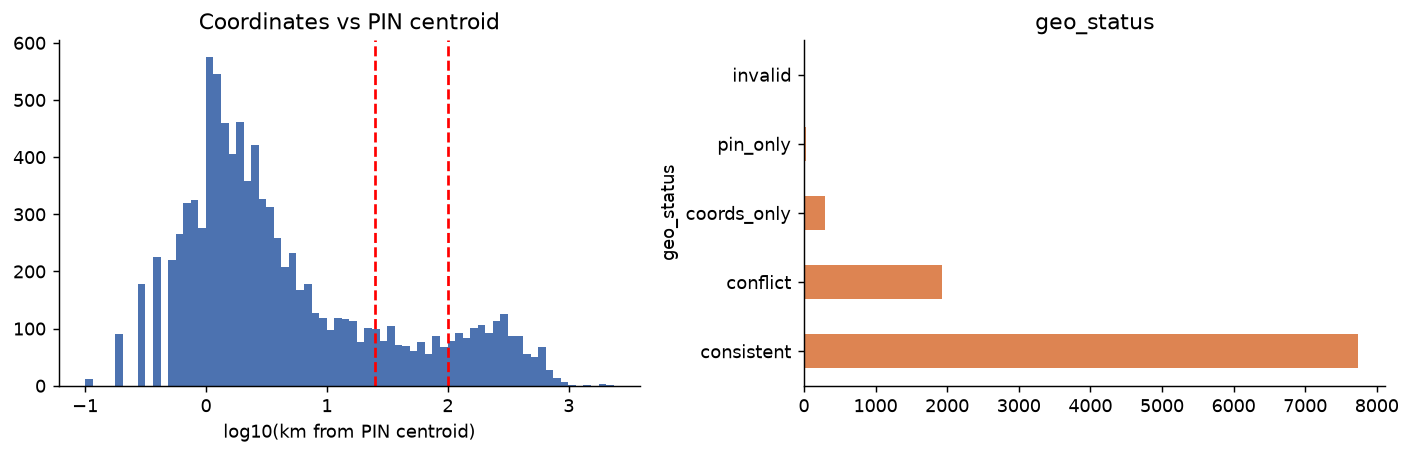
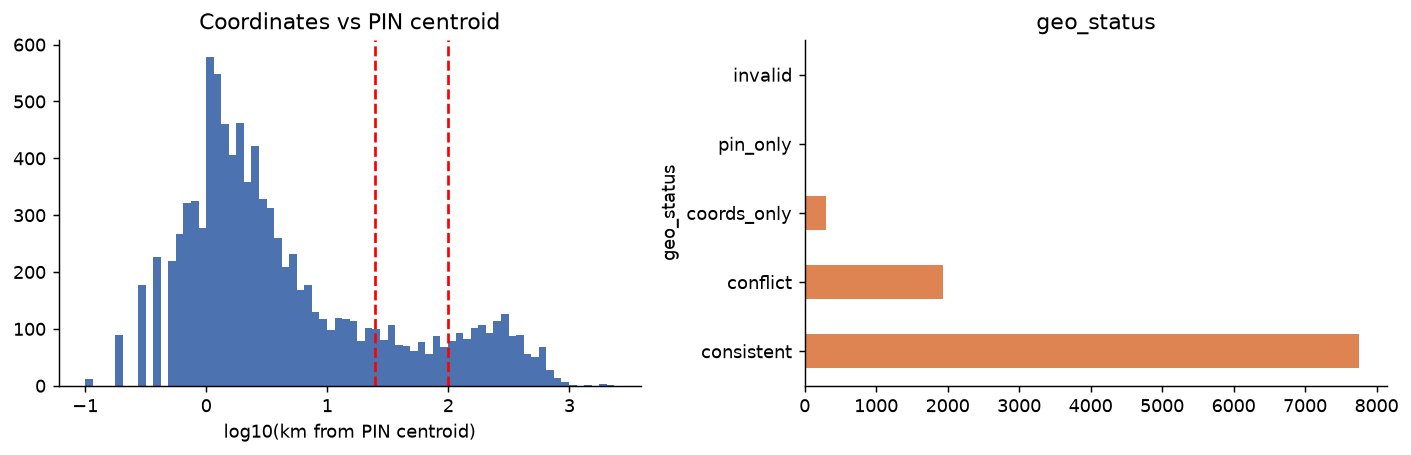
Person 2: rebuild fac_geo on Person 1's fac_base
- the 30 repaired records now have coordinates (24 verified, 5 approximate, 1 unverified)
- cross-check against Person 1's overlapping location columns (section 8b)
- note on shared column names for the final join; README and report section 2 refreshed

diff --git a/Person_2/README.md b/Person_2/README.md
@@ -34,7 +34,7 @@ jupyter lab Person2_Geo.ipynb          # or open it in VS Code and Run All
 
 ```python
 import geo_pipeline as gp, geocoder as G
-base, _ = gp.load_base("../Dataset/facilities.csv")            # swap in Person 1's fac_base when available
+base = pd.read_parquet("../Person_1/output/fac_base.parquet")   # Person 1's table (pip install pyarrow)          
 ref     = gp.build_reference("../Dataset/india_post_pincode_directory.csv")
 osm     = pd.read_csv("outputs/osm_health_poi.csv")    # optional; omit to skip the OpenStreetMap check
 geo     = gp.build_fac_geo(base, ref, osm=osm)         # ~50 s with OSM, ~15 s without
@@ -79,7 +79,7 @@ Every row has `reasons`: a JSON list of plain sentences for the "Why this facili
 
 ## Known limits
 
-* **30 truncated records have no coordinates** here (`geo_status` is `pin_only` or `invalid`) because stitching them is Person 1's task. Re-run with P1's `fac_base`.
+* **Base table:** built on Person 1's stitched `Person_1/output/fac_base.parquet` (9,989 rows). The 30 repaired records now have coordinates: 24 verified, 5 approximate (PIN centre), 1 unverified. Reading Parquet needs `pip install pyarrow`; without Person 1's file the notebook falls back to a stand-in base (which has no coordinates for those 30).
 * **OpenStreetMap corroboration (L3) is done.** `fetch_osm.py` downloaded **87,469** named hospitals/clinics/doctors/dentists (4.9 MB, `outputs/osm_health_poi.csv`) for 35 of 36 states/UTs; Lakshadweep failed twice (the dataset has no facilities there). A facility counts as matched when an OSM place with a >= 80% similar name lies within 2 km of its coordinates or its PIN centroid: **3,379 facilities (33.8%)**. OSM coverage is incomplete, so a miss is not evidence of a wrong location. Where OSM could arbitrate a coordinate-vs-PIN conflict (799 of 1,924), it sided with the coordinates 609 times and with the PIN 190 times.
 * **District-by-PIN is approximate** where a PIN spans districts (6.5% of PINs) and where district boundaries have changed since the directory was built. `flag_district_conflict` marks facilities where the PIN and the coordinates disagree.
 * **NFHS match:** 704 of 706 NFHS districts map to an India Post district. `Chandel` (filed under Mizoram in NFHS, which looks like a source error) and `Warangal Rural` (India Post has a single Warangal) are left unmatched.
@@ -102,6 +102,7 @@ df.write.mode("overwrite").saveAsTable("<catalog>.<schema>.fac_geo")
 
 ## Hand-offs
 
-* **Person 1:** call `build_fac_geo(base=fac_base, reference=ref)` once `fac_base` exists; it fills the 30 stitched records.
+* **Person 1:** done, thank you. `fac_geo` is built on `fac_base.parquet`. If `fac_base` is re-issued, re-run `build_fac_geo(base=fac_base, reference=ref, osm=osm)` (about 45 s).
+* **Final join:** `fac_base` and `fac_geo` share these column names: `city_matches_pin, pin6, pin_district, pin_lat, pin_lon, pin_source, pin_state, pin_valid, reasons, state_norm`. Prefix one side (for example `geo_`) before joining the four tables. On the overlapping fields the two tables agree on about 99.9% of rows (PIN, state); `city_matches_pin` agrees on 94.6% because this table applies more rules (Delhi-style city names, nearby-place check).
 * **Person 3:** `merge_suspect_score` location inputs are `flag_geo_mismatch_100km` (B6) and `flag_multiple_pins` (B10); `flag_shared_coords` and `flag_district_conflict` are optional extra signals.
 * **Person 4 / ranking:** use `best_lat`, `best_lon` for distance and `location_trust` (label) / `location_trust_score` (0-1) inside `facility_trust`. Show `location_precision` so a `pin_centroid` result is never presented as an exact address.

diff --git a/Person_2/data_quality_report_section2.md b/Person_2/data_quality_report_section2.md
@@ -9,8 +9,8 @@ Base: 9,989 facilities. Locations were decided with the rule in the playbook plu
 | B3 | PIN had a space/hyphen / was malformed | 156 / 73 | FIX: cleaned; else read from the address text |
 | B4 | PIN not in the India Post directory | 209 | FLAG: flag_pin_invalid; falls back to coordinates or district |
 | B5 | State differs from the PIN's state | 64 (26 AP/Telangana) | FLAG; AP/Telangana trust the PIN; 15 PINs ignored where address and coordinates both disagree |
-| B6 | Coordinates > 25 km from the PIN centroid | 1924 | FLAG: geo_mismatch_km, geo_status = conflict |
-| B7 | Coordinates > 100 km from the PIN | 1191 | FLAG + trust penalty; PIN centroid used unless OSM or district agreement supports the coordinates |
+| B6 | Coordinates > 25 km from the PIN centroid | 1930 | FLAG: geo_mismatch_km, geo_status = conflict |
+| B7 | Coordinates > 100 km from the PIN | 1194 | FLAG + trust penalty; PIN centroid used unless OSM or district agreement supports the coordinates |
 | B8 | Coordinates outside India | 6 | NULL (original kept in raw_latitude / raw_longitude) |
 | B9 | Facilities on identical coordinates | 81 | FLAG: location_precision = locality |
 | B10 | Address mentions 2+ distinct valid PINs | 89 | FLAG: flag_multiple_pins (feeds the merge score) |
@@ -24,22 +24,22 @@ Base: 9,989 facilities. Locations were decided with the rule in the playbook plu
 
 | location_trust | facilities | share |
 |---|---|---|
-| verified | 7733 | 77.4% |
+| verified | 7757 | 77.7% |
 | verified_osm | 799 | 8.0% |
-| unverified | 614 | 6.1% |
-| approximate_pin | 586 | 5.9% |
+| unverified | 615 | 6.2% |
+| approximate_pin | 561 | 5.6% |
 | probable | 256 | 2.6% |
 | unknown | 1 | 0.0% |
 
-Trust level (score-based): high 8756, medium 617, low 616.
-A usable best location exists for 9,988 of 9,989; precision: coordinates 8807, pin_centroid 1109, locality 72, none 1.
+Trust level (score-based): high 8780, medium 592, low 617.
+A usable best location exists for 9,988 of 9,989; precision: coordinates 8831, pin_centroid 1085, locality 72, none 1.
 
 ### Notes
 
-* OpenStreetMap (87,469 places) matched 3,379 facilities. Of 1924 coordinate-vs-PIN conflicts it supported the coordinates 609 times and the PIN 190 times.
+* OpenStreetMap (87,469 places) matched 3,381 facilities. Of 1930 coordinate-vs-PIN conflicts it supported the coordinates 609 times and the PIN 190 times.
 * Added tier `probable`: coordinates in the same district as the PIN and within 100 km are kept. Where OSM could arbitrate, the coordinates were right about three times in four, so discarding them would lose good data.
 * Added tier `approximate_district` (only the district is known). `location_trust` therefore has seven labels, a superset of the playbook's five; map `probable` to verified-with-caution if a strict five-way label is needed.
 * The India Post directory is itself wrong for some PINs (for example 799001 in Agartala is filed under Telangana). When the address state and the coordinates both disagree with the PIN, the PIN is ignored.
 * B10 is counted on address fields only (stricter than the playbook's 196).
-* The 30 truncated records have no coordinates until Person 1's stitched `fac_base` replaces the stand-in base.
+* Built on Person 1's stitched `fac_base`: the 30 repaired records now carry coordinates and are located like every other facility.
 * District-by-PIN is approximate where a PIN spans districts; `flag_district_conflict` shows where the PIN and the coordinates disagree.
